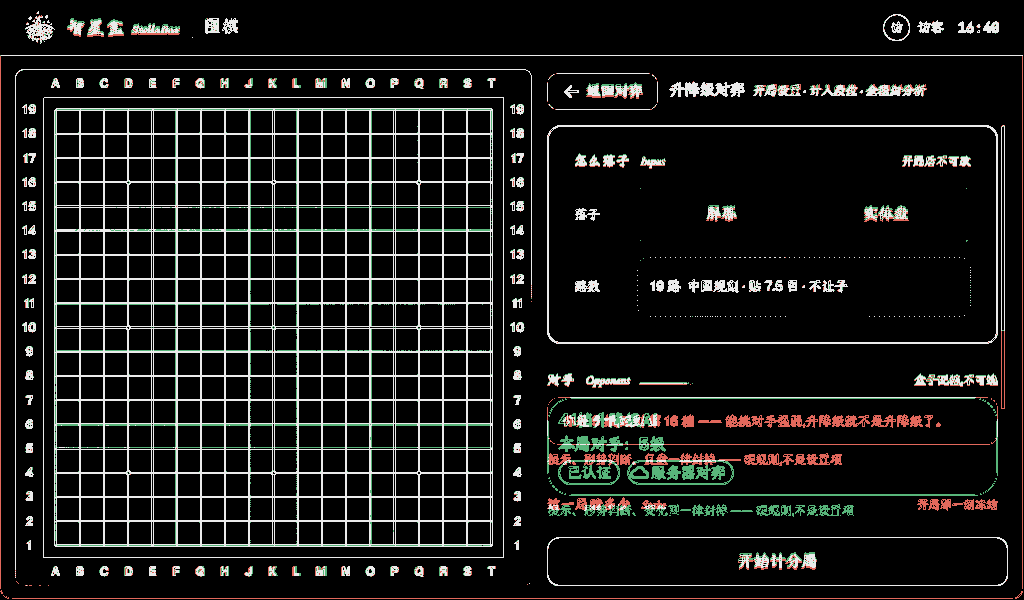
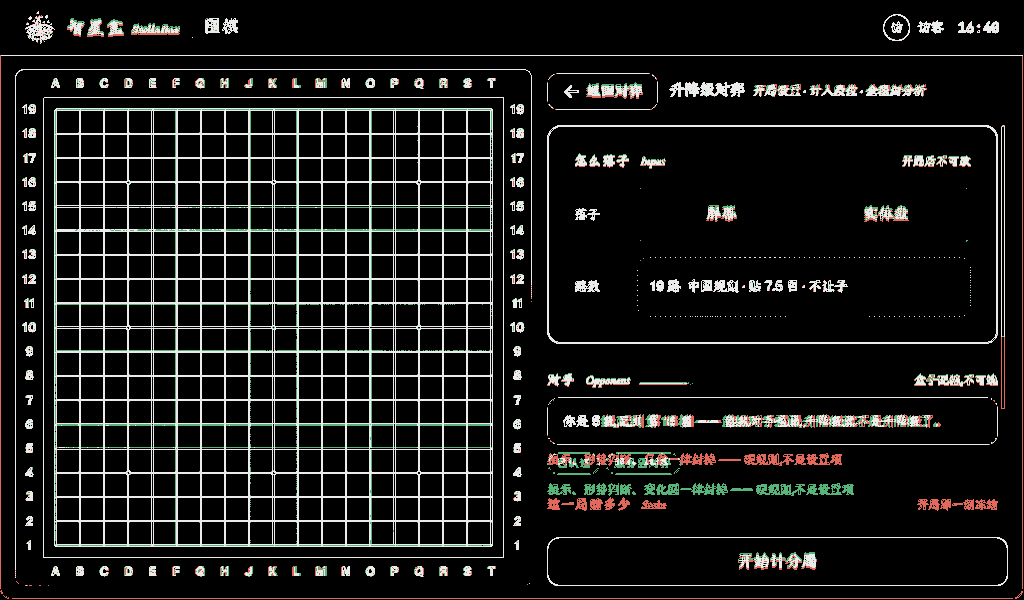
feat(kiosk-go): 屏 03「对手」换成外壳写法;两条常年红/空过的断言都是测试自己的毛病(S5)
## 一、「对手」那一格

登记过的欠账:实现用的是共享件 `features/aiLadder/AiLadderSetupOpponent`(MUI 的
Chip / LinearProgress / Alert),而它同时是 galaxy 那屏的消费者 —— 在原地改样式会把
另一家一起改了。

**没走「给共享件加个 variant」**:这里要换的不是几个尺寸,是**另一套视觉语言**;
`@container` 那条路子只收窄盒子、换不掉标记,而一个能切换整套视觉的 prop
就是一个 prop 兼管两件事。⇒ 另起 `kiosk/components/aiLadder/KioskAiLadderOpponent`,
六种状态(加载 / 出错重试 / 定级进度 / 未认证档 / 不可挑战 / 待结算)全部搬过来,
词取自 `copy.ts`、判别位取自 `startGate.ts`,两边同源。

已定档那一句照稿子逐字写:「你是 **5级**,配到 **第 16 档** —— 能挑对手强弱,
升降级就不是升降级了。」两个数出自**同一份** `rung`:
`ai_ladder_ranked.py:178` 是 `if rung is not None: return rung` ——
**升降级里你的档就是你的对手**,不是两件事。共享件那边说的是「本局对手:5级」,
说的是同一个 rung 的另一半。

不画 `setupTitle` 那行标题:它正上方就是 `<KioskSecLabel zh="对手">`,同一件事说两遍。
(顺带避开一个已知过期的数 ——「41档升降级AI」,而 Fan 2026-08-13 已裁定 41→35,
代码至今没落地。那笔账在阶梯赛道上,不在这一屏。)

### 两份视图的风险只有一个,而且是致命的那个:**它们会说不同的话**

屏 03 上写着「可以试下,但本局不计入升降级」,而同一状态在网页上什么都不说 ——
用户按下去之后才发现白下一局,**而两边的单测都是绿的(各测各的)**。
⇒ `KioskAiLadderOpponent.parity.test.tsx` 逐状态断言:该说的那几句两边要么都说、
要么都不说;两处登记在案的不同单独钉住,多一处少一处都红。

⚠ **第一版这条闸是空的。** 我照着共享件现成的用例把 `placed` 那一态写成
`current_opponent: null` —— 而 `isRungUnseatable` / `isProvisionalSeating` 读的
**正是 `current_opponent`**(`startGate.ts:29,74`)⇒ 两个判别位恒为 false ⇒
「不可挑战」和「可以试下但不计入」那两条**永远不渲染**,断言它们的用例全部空过。
实测:把 kiosk 那份的 `provisionalSeating` 整块删掉,闸**一条都没红**。
后端 `ai_ladder.py:474` 写的是 `placement_state = {"phase":"placed","rung": opponent}`
而 `current_opponent = dict(opponent)` —— **它俩是同一个对象**,fixture 照这个改了之后
三条警告的分支各自变异一次,全部当场红。

## 二、两条常年红 / 空过的断言,都是测试自己的毛病
[…]

Changed region(s): [[0.5312, 0.66, 0.9375, 0.87]]

diff --git a/katrain/web/ui/src/kiosk/components/aiLadder/KioskAiLadderOpponent.parity.test.tsx b/katrain/web/ui/src/kiosk/components/aiLadder/KioskAiLadderOpponent.parity.test.tsx
@@ -1,0 +1,137 @@
+import { render, screen, cleanup } from '@testing-library/react';
+import { ThemeProvider } from '@mui/material/styles';
+import { describe, expect, it } from 'vitest';
+
+import AiLadderSetupOpponent from '../../../features/aiLadder/AiLadderSetupOpponent';
+import { AI_LADDER_COPY } from '../../../features/aiLadder/copy';
+import type { AiLadderReadyStatus, AiLadderStatus } from '../../../features/aiLadder/types';
+import { zenTheme } from '../../../theme';
+import KioskAiLadderOpponent from './KioskAiLadderOpponent';
+
+/**
+ * 「对手」那一格现在有**两份视图**:galaxy 那份(MUI)和 kiosk 这份(外壳)。
+ *
+ * 两份并行实现的风险只有一个,而且是致命的那一个:**它们会说不同的话。**
+ * 屏 03 上写着「可以试下但不计入升降级」,而同一个状态在网页上什么都不说 ——
+ * 用户按下去之后才发现这一局白下了,而两边的单测都是绿的(各测各的)。
+ *
+ * ⇒ 这条闸逐状态断言:**该说的那几句,两边要么都说、要么都不说。**
+ * 判据落在 `AI_LADDER_COPY` 的具体串上,不落在「渲染了几个元素」上。
+ *
+ * 两处**登记在案的不同**在文件末尾单独钉住 —— 不同本身是裁定,
+ * 但它必须是**这两处**,多一处少一处都要在这儿变红。
+ */
+
+const base: AiLadderReadyStatus = {
+  view_state: 'ready',
+  placement_state: { phase: 'placement', completed_games: 3, total_games: 5 },
+  current_opponent: {
+    rung: 17, rank_name: '4级',
+    certification_status: 'certified', availability: 'available', route: 'server',
+  },
+  recent_ranked_results: [],
+  net_score: 0,
+  pending_settlement: false,
+};
+
+/**
+ * ⚠ **`current_opponent` 和 `placement_state.rung` 是同一个对象** ——
+ * 后端 `ai_ladder.py:474` 写的是 `placement_state = {"phase": "placed", "rung": opponent}`,
+ * 而 `current_opponent = dict(opponent)`。
+ *
+ * 这一条不是细节:`isRungUnseatable` / `isProvisionalSeating` 读的都是
+ * **`current_opponent`**(`startGate.ts:29,74`)。把它造成 `null`(共享件那份现成的用例
+ * 就是这么写的),两个判别位恒为 false ⇒「不可挑战」和「可以试下但不计入」那两条**永远不渲染**,
+ * 而断言它们的用例全部**空过**。
+ * 2026-08-26 实测:第一版这么写的时候,把 kiosk 那份的 `provisionalSeating` 整块删掉,
+ * 这份闸**一条都没红**。
+ */
+const placed = (over: Partial<AiLadderReadyStatus['current_opponent'] & object> = {},
+  extra: Partial<AiLadderReadyStatus> = {}): AiLadderReadyStatus => {
+  const rung = { ...base.current_opponent!, rung: 16, rank_name: '5级', ...over };
+  return { ...base, placement_state: { phase: 'placed', rung }, current_opponent: rung, ...extra };
+};
+
+const CASES: [string, AiLadderStatus][] = [
+  ['加载中', { view_state: 'loading' }],
+  ['出错', { view_state: 'error', message: '升降级对弈状态加载失败' }],
+  ['定级赛进行中', base],
+  ['已定档 · 已认证', placed()],
+  ['已定档 · 暂定档且不可挑战', placed({ certification_status: 'provisional', availability: 'unavailable' })],
+  // 这一台开了「暂定也让坐」(`KATRAIN_LADDER_ALLOW_PROVISIONAL`):坐得下,但这一局不计入。
+  // **屏上不说这句话的代价是用户白下一局**,所以两边必须都说。
+  ['已定档 · 暂定但这台机器让坐', placed(
+    { certification_status: 'provisional' }, { provisional_play_allowed: true },
+  )],
+  ['已定档 · 成绩在途', placed({}, { pending_settlement: true })],
+  ['本机对弈那一路', placed({ route: 'local' })],
+];
+
+/** 这几句**不许走散** —— 每一句都是「用户按下去之前必须知道」的一件事。 */
+const MUST_MATCH = () => [
+  AI_LADDER_COPY.loading,
+  AI_LADDER_COPY.loadError,
+  AI_LADDER_COPY.retry,
+  AI_LADDER_COPY.pendingSettlement,
+  AI_LADDER_COPY.unavailable,
+  AI_LADDER_COPY.provisionalSeating,
+  AI_LADDER_COPY.certification.certified,
+  AI_LADDER_COPY.certification.provisional,
+  AI_LADDER_COPY.route.local,
+  AI_LADDER_COPY.route.server,
+  AI_LADDER_COPY.placementOpponentPrefix,
+  '定级进度 3/5',
+];
+
+/** 屏上出现了哪几句。用 `textContent` 整片找,免得被标记切成两半骗过去。 */
+function spoken(container: HTMLElement): string[] {
+  const text = container.textContent ?? '';
+  return MUST_MATCH().filter((phrase) => text.includes(phrase));
+}
+
+describe('两份视图说的是同一套话', () => {
+  for (const [name, status] of CASES) {
+    it(name, () => {
+      const shared = render(
+        <ThemeProvider theme={zenTheme}>
+          <AiLadderSetupOpponent status={status} onRetry={() => {}} />
+        </ThemeProvider>,
+      );
+      const sharedSaid = spoken(shared.container);
+      cleanup();
+
+      const kiosk = render(<KioskAiLadderOpponent status={status} onRetry={() => {}} />);
+      const kioskSaid = spoken(kiosk.container);
+      cleanup();
+
+      expect(kioskSaid, `${name}:两边说的不是同一套`).toEqual(sharedSaid);
+      // 空集相等是**假通过**:两边都没渲染出来时这条也会绿。
+      expect(sharedSaid.length, `${name}:这一态两边都一句没说,用例本身是空的`).toBeGreaterThan(0);
+    });
+  }
+});
+
+describe('登记在案的两处不同 —— 必须是这两处', () => {
+  it('外壳那份不画「41档升降级AI」那行标题:它正上方就是「对手」那条组标签', () => {
+    const shared = render(
+      <ThemeProvider theme={zenTheme}><AiLadderSetupOpponent status={placed()} /></ThemeProvider>,
+    );
+    expect(shared.container.textContent).toContain(AI_LADDER_COPY.setupTitle);
+    cleanup();
+
+    const kiosk = render(<KioskAiLadderOpponent status={placed()} />);
+    expect(kiosk.container.textContent).not.toContain(AI_LADDER_COPY.setupTitle);
+  });
+
+  it('已定档那一句照稿子写:「你是 X,配到 第 N 档 —— 为什么不给挑」', () => {
+    render(<KioskAiLadderOpponent status={placed()} />);
+    const said = screen.getByTestId('ladder-opponent').textContent ?? '';
+    expect(said).toContain('你是');
+    expect(said).toContain('5级');
+    expect(said).toContain('第 16 档');
+    expect(said).toContain(AI_LADDER_COPY.boxPicksReason);
+    // 两个数出自**同一份** `rung` —— 升降级里你的档就是你的对手
+    // (`ai_ladder_ranked.py:178` `if rung is not None: return rung`)。
+    // 所以这不是「你的段位」和「对手的档」两件事,是同一件事的两种写法。
+  });
+});

diff --git a/katrain/web/ui/src/kiosk/components/aiLadder/KioskAiLadderOpponent.tsx b/katrain/web/ui/src/kiosk/components/aiLadder/KioskAiLadderOpponent.tsx
@@ -1,0 +1,124 @@
+import { AI_LADDER_COPY, formatPlacementProgress, formatPlacementProgressLabel } from '../../../features/aiLadder/copy';
+import { isProvisionalSeating, isRungUnseatable } from '../../../features/aiLadder/startGate';
+import type { AiLadderStatus } from '../../../features/aiLadder/types';
+import { useTranslation } from '../../../hooks/useTranslation';
+
+/**
+ * 屏 03 升降级开局设置里「对手」那一格 —— **外壳写法**。
+ *
+ * ## 为什么另起一个文件,而不是给共享件加个 `variant`
+ *
+ * `features/aiLadder/AiLadderSetupOpponent` 是 galaxy 那屏的消费者
+ * (`galaxy/pages/AiSetupPage.tsx`),在原地改样式会把另一家一起改了。
+ * 而这里要换的**不是几个尺寸,是另一套视觉语言**(MUI 的 Chip / LinearProgress / Alert
+ * 对 `.kiosk-tag` / `.setexplain` / `.kiosk-btn`)—— `@container` 那条路子只收窄盒子,
+ * 换不掉标记。给共享件加一个能切换整套视觉的 prop,就是一个 prop 兼管两件事。
+ *
+ * ⚠ **两份视图的风险是它们会说不同的话。** 所以:
+ *  · 每一句都取自 `AI_LADDER_COPY`,两边同源;
+ *  · 六种状态的判别位取自同一组纯函数(`startGate.ts`),不在这儿重写条件;
+ *  · `KioskAiLadderOpponent.parity.test.tsx` 逐状态断言**两个视图说出来的话是同一套**。
+ *
+ * ## 和稿子的两处不同
+ *
+ * ① **不画标题。** 共享件里那行 `setupTitle` 在这儿是重复的 —— 它正上方就是
+ *    `<KioskSecLabel zh="对手">`,同一件事说两遍。
+ *    (顺带避开一个已知过期的数:`setupTitle` 写的是「41档」,而 Fan 2026-08-13 已裁定
+ *    41 → 35 档,代码至今没落地。那笔账在阶梯那条赛道上,不在这一屏。)
+ * ② **已定档那一态照稿子写成一句话**:「你是 X,配到 第 N 档 —— 为什么不给挑」。
+ *    共享件那边只说「本局对手:X」。两个数(`rank_name` / `rung`)都在
+ *    `placement_state.rung` 里 —— 在升降级里**你的档就是你的对手**,不是两个东西。
+ */
+const KioskAiLadderOpponent = ({ status, onRetry }: {
+  status: AiLadderStatus;
+  onRetry?: () => void;
+}) => {
+  // AI_LADDER_COPY 每一句都是 getter;没有这一行,语言切换后它们还念着首次渲染时那一种。
+  useTranslation();
+
+  if (status.view_state === 'loading') {
+    return (
+      <p className="setexplain" role="status" aria-live="polite" data-testid="ladder-opponent">
+        {AI_LADDER_COPY.loading}
+      </p>
+    );
+  }
+
+  if (status.view_state === 'error') {
+    return (
+      <div className="setexplain" data-testid="ladder-opponent">
+        <span role="alert">{status.message || AI_LADDER_COPY.loadError}</span>
+        {/* 重试**永远画得出来**(拿不到 `onRetry` 时禁用),不是有就画没有就撤 ——
+            一颗时有时无的键比一颗灰着的键更让人以为「这屏坏了」。 */}
+        <button
+          type="button" className="kiosk-btn kiosk-btn--pill ladder-retry"
+          onClick={onRetry} disabled={!onRetry}
+        >
+          {AI_LADDER_COPY.retry}
+        </button>
+      </div>
+    );
+  }
+
+  const placement = status.placement_state;
+  const activeEntry = placement.phase === 'placement' ? status.current_opponent : placement.rung;
+  // 「不可挑战」是**服务端的回答**,不是这一档的属性:开了暂定对局的节点上,
+  // 一个没标定的档是可以坐下的,而在一颗能按的键旁边说它不可挑战,正是玩家会不信的那种自相矛盾。
+  const unavailable = isRungUnseatable(status) || !activeEntry;
+  const provisional = isProvisionalSeating(status);
+
+  return (
+    <div data-testid="ladder-opponent">
+      {placement.phase === 'placement' ? (
+        <p className="setexplain">
+          {/* 前缀和档名放在**同一个元素**里:拆开之后 `getByText('定级对手:9级')` 会找不到,
+              而那条断言问的正是「屏上有没有这句话」—— 一句话被标记切成两半,
+              对读屏和对测试都是两句。 */}
+          <span>{AI_LADDER_COPY.placementOpponentPrefix}{status.current_opponent?.rank_name ?? '—'}</span>
+          <br />
+          {formatPlacementProgress(placement.completed_games, placement.total_games)}
+          <progress
+            className="ladder-progress"
+            aria-label={formatPlacementProgressLabel(placement.completed_games, placement.total_games)}
+            max={placement.total_games}
+            value={placement.completed_games}
+          />
+        </p>
+      ) : (
+        <p className="setexplain">
+          {/* 稿子那一句。两个数都出自同一份 `rung` —— 升降级里你的档就是你的对手。 */}
+          你是 <b>{placement.rung.rank_name}</b>,配到 <b>第 {placement.rung.rung} 档</b>
+          {' —— '}
+          {AI_LADDER_COPY.boxPicksReason}。
+        </p>
+      )}
+
+      {activeEntry && (
+        <div className="ladder-tags">
+          {/* 「暂定」是琥珀的、「已认证」是素的 —— 共享件那边同一处是 Chip 的
+              warning / success,两边说的是同一件事。 */}
+          <span className={activeEntry.certification_status === 'certified' ? 'kiosk-tag' : 'kiosk-tag kiosk-tag--warn'}>
+            {AI_LADDER_COPY.certification[activeEntry.certification_status]}
+          </span>
+          <span className="kiosk-tag">{AI_LADDER_COPY.route[activeEntry.route]}</span>
+        </div>
+      )}
+
+      {/* 这三条不挂 `role="status"` / `aria-live`:那是**播报进展**的语义,而这里没有进展可播 ——
+          它们说的是一个停住的状态。加载那一处保留,因为那儿真有一次取数在跑。 */}
+      {status.pending_settlement && (
+        <p className="ladder-warn">{AI_LADDER_COPY.pendingSettlement}</p>
+      )}
+      {unavailable && !status.pending_settlement && (
+        <p className="ladder-warn">{AI_LADDER_COPY.unavailable}</p>
+      )}
+      {provisional && !status.pending_settlement && (
+        <p className="ladder-warn" data-testid="ladder-provisional-seating">
+          {AI_LADDER_COPY.provisionalSeating}
+        </p>
+      )}
+    </div>
+  );
+};
+
+export default KioskAiLadderOpponent;

diff --git a/katrain/web/ui/src/kiosk/pages/AiSetupPage.tsx b/katrain/web/ui/src/kiosk/pages/AiSetupPage.tsx
@@ -16,7 +16,7 @@ import { internalToRank, sliderToInternal } from '../../utils/rankUtils';
 import { useTranslation } from '../../hooks/useTranslation';
 import { useAuth } from '../../context/AuthContext';
 import { writeActiveSession } from '../utils/activeSession';
-import AiLadderSetupOpponent from '../../features/aiLadder/AiLadderSetupOpponent';
+import KioskAiLadderOpponent from '../components/aiLadder/KioskAiLadderOpponent';
 import {
   AiLadderApiError,
   endAiLadderGame,
@@ -387,18 +387,18 @@ const AiSetupPage = () => {
 
               {isRanked ? (
                 <>
-                  {/* 对手。**这一块还没换成外壳写法** —— `AiLadderSetupOpponent` 手上是
-                      加载 / 出错重试 / 定级赛进度 / 未认证档 / 不可挑战 / 待结算六种状态,
-                      稿子只画了「你是 5 级,配到 第 16 档」那一种。换壳要把六种都搬过来,
-                      而它同时还是 galaxy 那屏的消费者(`galaxy/pages/AiSetupPage.tsx:557`),
-                      在原地改样式会把另一家一起改了。**登记,不在这一轮。** */}
+                  {/* 对手。2026-08-26 换成外壳写法:六种状态(加载 / 出错重试 / 定级进度 /
+                      未认证档 / 不可挑战 / 待结算)全部搬过来了,词和判别位都还取自
+                      `features/aiLadder` 那一份(`copy.ts` / `startGate.ts`),
+                      两个视图说的是同一套话 —— `KioskAiLadderOpponent.parity.test.tsx` 逐状态钉住。
+                      **没有在共享件上原地改样式**:它同时是 galaxy 那屏的消费者。 */}
                   <section className="setgrp" data-testid="setup-opponent-group">
                     <KioskSecLabel
                       zh={t('ladder:opponent', '对手')}
                       en="Opponent"
                       value={t('ladder:box_picks', '盒子配档,不可选')}
                     />
-                    <AiLadderSetupOpponent status={aiLadderStatus} onRetry={retryAiLadderStatus} compact />
+                    <KioskAiLadderOpponent status={aiLadderStatus} onRetry={retryAiLadderStatus} />
                     <p className="kiosk-opthint">
                       {t('ladder:sealed_hint', '提示、形势判断、变化图一律封掉 —— 硬规则,不是设置项')}
                     </p>

diff --git a/katrain/web/ui/src/kiosk-shell/go-screens.css b/katrain/web/ui/src/kiosk-shell/go-screens.css
@@ -1262,3 +1262,28 @@ button.kiosk-row.figrow { flex: none; }
 .kiosk-row--step.is-bad { border-color: color-mix(in srgb, var(--bad) 55%, transparent); }
 .kiosk-row--step.is-bad > .kiosk-row__lead { border-color: var(--bad); color: var(--bad); }
 .kiosk-row--step.is-warn > .kiosk-row__lead { border-color: var(--warn); color: var(--warn); }
+
+/* ── 屏 03 升降级 ·「对手」那一格 ──────────────────────────────────────────
+   共享件 `features/aiLadder/AiLadderSetupOpponent` 用的是 MUI(Chip / LinearProgress /
+   Alert),而它同时是 galaxy 那屏的消费者 —— 在原地改样式会把另一家一起改了。
+   这里是外壳那一份视图(`kiosk/components/aiLadder/KioskAiLadderOpponent`)自己的几个类。
+   ⚠ 名字都带 `ladder-` 前缀,**不重定义任何裸共享类**(见本文件顶上 `.gside` 那条碰撞)。 */
+.ladder-tags { display: flex; flex-wrap: wrap; gap: 6px; margin-top: 8px; }
+
+/* 警告那几行会换行(「该档位尚未标定,可以试下,但本局不计入升降级」有 23 个字),
+   所以**不能**用 `.kiosk-opthint` —— 那个类的高度是写死的 `var(--opthint-h)`、
+   行高等于高度,第二行会直接压出去。 */
+.ladder-warn {
+  margin: 8px 0 0; font-family: var(--font-sans); font-size: 12px; line-height: 1.6;
+  color: var(--warn);
+}
+
+/* 定级进度条。原生 `<progress>`:它自带 `value`/`max` 语义,读屏不用另外编 aria。 */
+.ladder-progress {
+  display: block; width: 100%; height: 8px; margin-top: 8px;
+  appearance: none; border: none; border-radius: 4px; background: var(--raise);
+}
+.ladder-progress::-webkit-progress-bar { border-radius: 4px; background: var(--raise); }
+.ladder-progress::-webkit-progress-value { border-radius: 4px; background: var(--accent); }
+
+.ladder-retry { margin-top: 10px; }

diff --git a/katrain/web/ui/tests/kiosk-screen-03-setup-ranked.fourup.spec.ts b/katrain/web/ui/tests/kiosk-screen-03-setup-ranked.fourup.spec.ts
@@ -106,9 +106,10 @@ test('四图:升降级开局设置 ←→ sample-go/shots/03-setup-ranked.png', 
       + '和屏 02 同一副骨架,右栏只回答三件事:你是谁、对手是谁、这一局赌多少',
     implementationCaption:
       '实现:/kiosk/play/ai/setup/ranked @1024×600 · 时钟冻 16:40 · 摄像头 stub 成已标定(和稿子同一态)· '
-      + '⚠ **「对手」那一块还没换壳**:实现用的仍是 `AiLadderSetupOpponent`,它手上是六种诚实状态'
-      + '(加载 / 出错重试 / 定级赛进度 / 已定档 / 档位不可挑战 / 成绩在途),而稿子只画了「已定档」那一种;'
-      + '它同时是 galaxy 那屏的消费者,在原地改样式会把另一家一起改了 —— **登记过的欠账,不是没看见** · '
+      + '**「对手」那一块 2026-08-26 换成外壳写法**:六种诚实状态(加载 / 出错重试 / 定级赛进度 / '
+      + '已定档 / 档位不可挑战 / 成绩在途)全搬过来了,稿子只画了「已定档」那一种,这一帧取的就是它 · '
+      + '没有在共享件上原地改样式(它同时是 galaxy 那屏的消费者),另起了一份外壳视图,'
+      + '词和判别位仍取自 `features/aiLadder`,一条逐状态的 parity 闸钉住两边说的是同一套话 · '
       + '**「落子」是两段可选**(同屏 02,已标定 ⇒ 选中「实体盘」);这一组**没有说明行**,'
       + '因为稿子 03 屏到「路数」就结束了 —— 照抄自由对弈那行会把下面每一组都推下去一行 · '
       + '**赌注按净胜分说话**:稿子那两格「升到 4 级 / 退到 6 级」是净胜分 ±2 的特例,真规则是每局 ±1、'

diff --git a/katrain/web/ui/src/features/aiLadder/copy.ts b/katrain/web/ui/src/features/aiLadder/copy.ts
@@ -27,6 +27,10 @@ export const AI_LADDER_COPY = {
   // (the ledger's own CHECK constraint refuses it). Say so before the game, not after.
   get provisionalSeating() { return i18n.t('ladder:provisional_seating', '该档位尚未标定，可以试下，但本局不计入升降级'); },
   get currentOpponentPrefix() { return i18n.t('ladder:current_opponent_prefix', '当前对手：'); },
+  // 屏 03 那句话:**为什么这一格不给挑**。稿子把它和「你是几级、配到第几档」写成一句 ——
+  // 挑得动对手强弱的升降级不是升降级,这是规则本身,不是这台机器的限制。
+  // 放在这里而不是那一屏里:升降级的词只许有一套(和平台名那次是同一条判据)。
+  get boxPicksReason() { return i18n.t('ladder:box_picks_reason', '能挑对手强弱,升降级就不是升降级了'); },
   get currentRankPrefix() { return i18n.t('ladder:current_rank_prefix', '当前段位：'); },
   get available() { return i18n.t('ladder:available', '可挑战'); },
   get unavailable() { return i18n.t('ladder:unavailable_rung', '该档位暂不可挑战'); },

diff --git a/katrain/web/ui/src/kiosk/__tests__/GamePageEngine.test.tsx b/katrain/web/ui/src/kiosk/__tests__/GamePageEngine.test.tsx
@@ -867,7 +867,11 @@ describe('GamePage engine mode', () => {
       fireEvent.click(within(confirmDialog).getByText('认输'));
 
       expect(mockHandleAction).toHaveBeenCalledWith('resign');
-      expect(mockClearPhysicalEngineError).toHaveBeenCalledTimes(1);
+      // ⚠ 这一句要等。`GamePage` 那颗确认键是 `await session.handleAction('resign')`
+      // **之后**才 `clearPhysicalEngineError()` —— 同步断言跑在那个微任务之前,
+      // 于是它常年红着,而红的原因和「认输之后错误弹窗关没关」毫无关系。
+      // (同一晚在 `ReportsPage.test.tsx` 上撞到同族的另一半:那边是**空过**。)
+      await waitFor(() => expect(mockClearPhysicalEngineError).toHaveBeenCalledTimes(1));
     });
   });
 });
